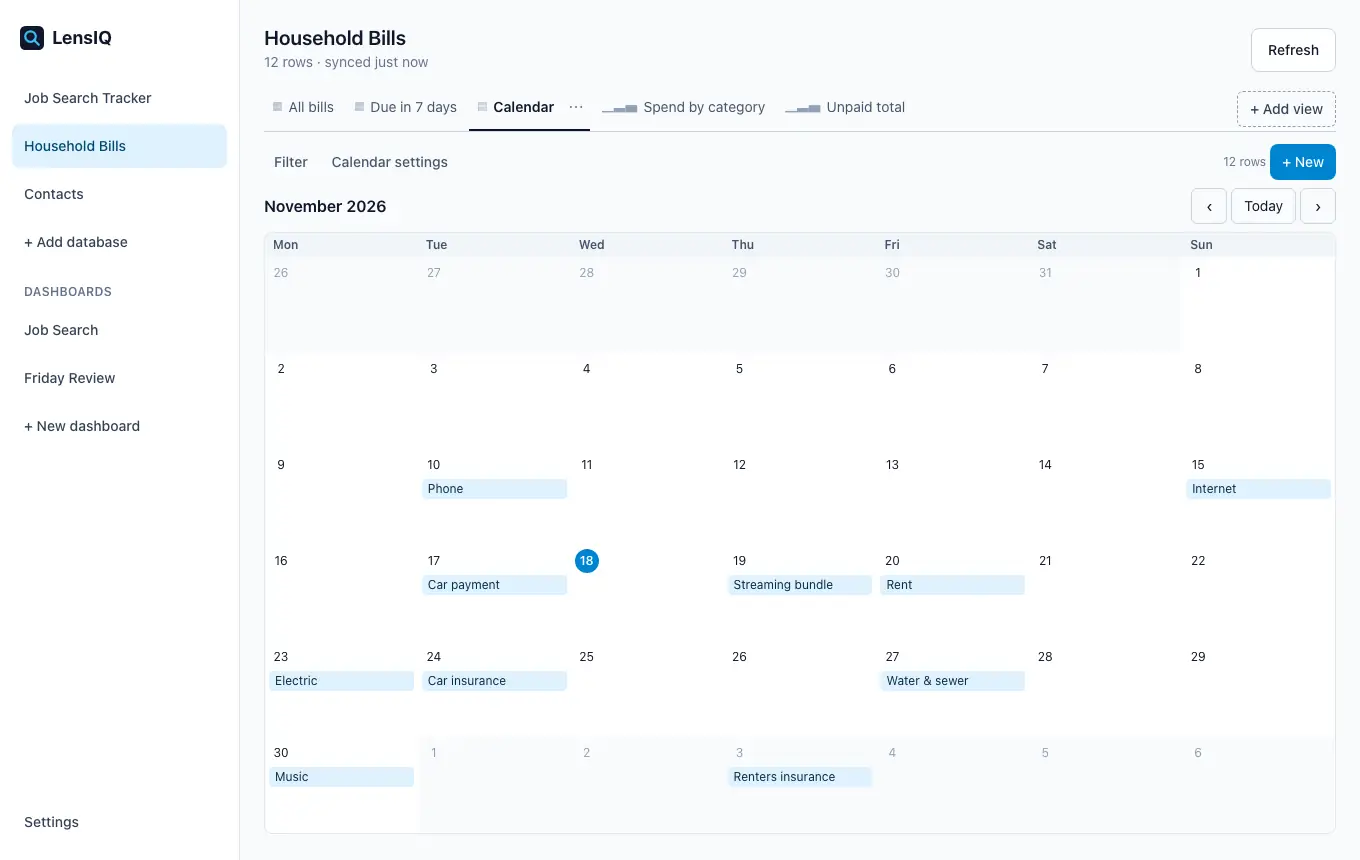
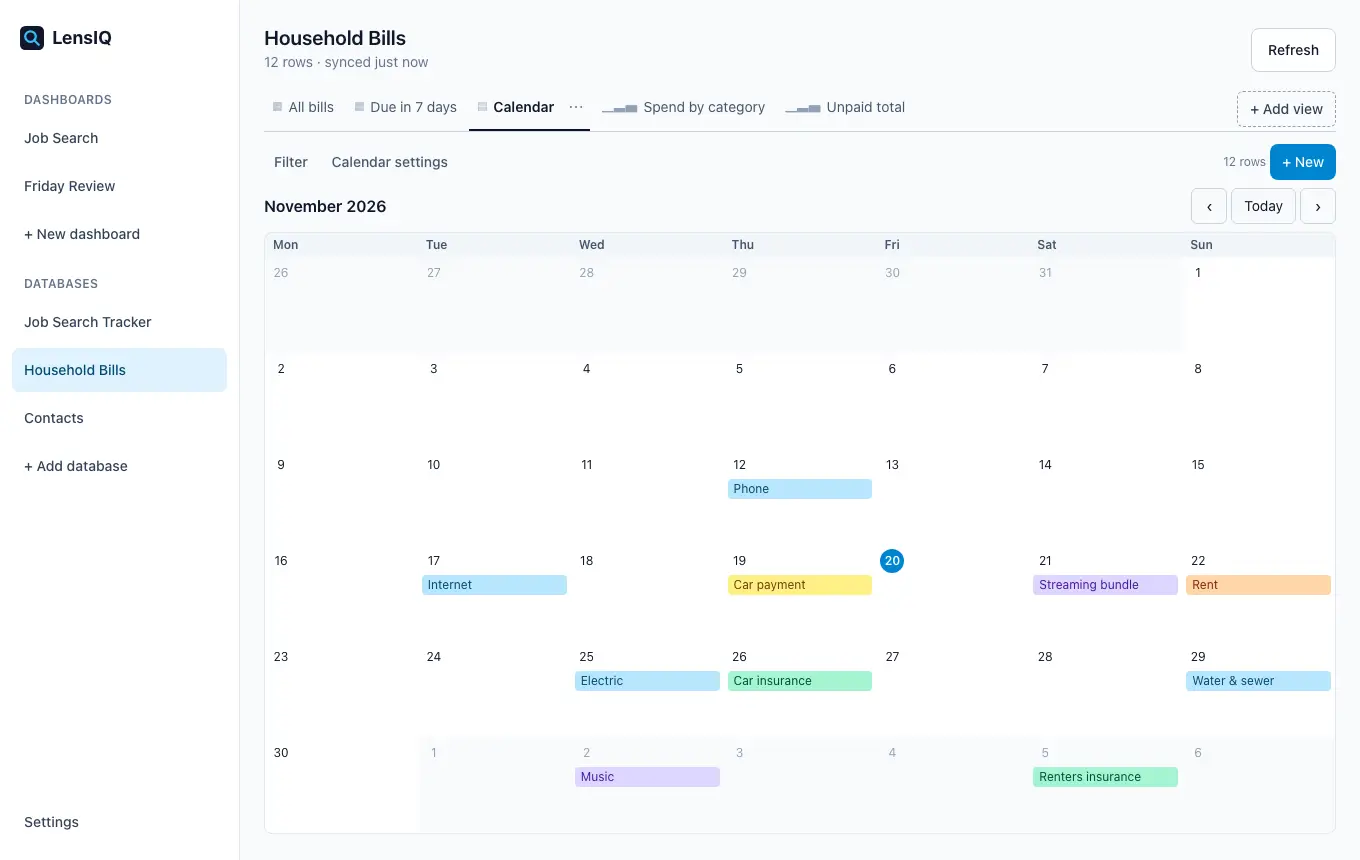
Release v1.2.0

diff --git a/web/src/demo/sampleData.ts b/web/src/demo/sampleData.ts
@@ -189,11 +189,12 @@ export function buildSample(now = new Date()): { databases: DemoDatabase[]; view
       ...base,
       sorts: [{ columnId: 'applied', direction: 'desc' }],
       hidden: ['posting'],
-      // Conditional highlighting (#51): offers green, rejections gray, a next step in the past orange.
+      // Conditional highlighting (#51): offers green, rejections gray, a next step in the past orange, one this week yellow.
       highlights: [
         { id: 'h1', filters: [{ id: 'hf1', columnId: 'status', op: 'any_of', value: ['st-offer'] }], filterMode: 'and', color: 'green', columnId: null },
         { id: 'h2', filters: [{ id: 'hf2', columnId: 'status', op: 'any_of', value: ['st-rejected'] }], filterMode: 'and', color: 'gray', columnId: null },
         { id: 'h3', filters: [{ id: 'hf3', columnId: 'next', op: 'past_days', value: 30 }], filterMode: 'and', color: 'orange', columnId: 'next' },
+        { id: 'h4', filters: [{ id: 'hf4', columnId: 'next', op: 'next_days', value: 7 }], filterMode: 'and', color: 'yellow', columnId: 'next' },
       ],
     }),
     view('v-jobs-board', JOBS_ID, 'Pipeline', 'board', { ...base, groupBy: 'status', cardFields: ['role', 'next'], hideEmptyGroups: false }),
@@ -216,8 +217,8 @@ export function buildSample(now = new Date()): { databases: DemoDatabase[]; view
       position: 0,
       tiles: [
         { id: 't1', viewId: 'v-jobs-board', size: 'full' },
-        { id: 't2', viewId: 'v-jobs-weekly', size: 'large' },
-        { id: 't3', viewId: 'v-jobs-salary', size: 'small' },
+        { id: 't2', viewId: 'v-jobs-weekly', size: 'large', height: 'short' },
+        { id: 't3', viewId: 'v-jobs-salary', size: 'small', height: 'short' },
         { id: 't4', viewId: 'v-jobs-status', size: 'medium' },
         { id: 't5', viewId: 'v-jobs-next', size: 'medium' },
       ],
@@ -230,7 +231,7 @@ export function buildSample(now = new Date()): { databases: DemoDatabase[]; view
       position: 1,
       tiles: [
         { id: 't6', viewId: 'v-bills-due', size: 'large' },
-        { id: 't7', viewId: 'v-bills-total', size: 'small' },
+        { id: 't7', viewId: 'v-bills-total', size: 'small', height: 'short' },
         { id: 't8', viewId: 'v-bills-cat', size: 'medium' },
         { id: 't9', viewId: 'v-bills-cal', size: 'medium' },
       ],

diff --git a/README.md b/README.md
@@ -11,14 +11,14 @@ Notion's free plan allows one chart. LensIQ keeps Notion as the data store and a
 <table>
   <tr>
     <td width="50%"><img src="docs/media/board-drag.webp" alt="Dragging a card to another status on a board updates Notion"><br><sub>Drag a card to change its status. The edit goes to Notion.</sub></td>
-    <td width="50%"><img src="docs/media/chart.webp" alt="Bar chart of applications per week, stacked by remote vs not remote"><br><sub>Charts: bar, line, area, donut and number tiles.</sub></td>
+    <td width="50%"><img src="docs/media/chart.webp" alt="Bar chart of applications per week, stacked by remote vs not remote, with each value written on its segment"><br><sub>Charts: bar, line, area, donut and number tiles, with values and totals.</sub></td>
   </tr>
   <tr>
-    <td><img src="docs/media/table.webp" alt="Table view with typed cells, sorting and inline editing"><br><sub>Typed table with filters, sorts and inline editing.</sub></td>
-    <td><img src="docs/media/calendar.webp" alt="Calendar view of bills by due date"><br><sub>Calendar by any date column; drag rows between days.</sub></td>
+    <td><img src="docs/media/table.webp" alt="Table view with typed cells; next steps due this week highlighted yellow"><br><sub>Typed table with filters, sorts, highlight rules and inline editing.</sub></td>
+    <td><img src="docs/media/calendar.webp" alt="Calendar view of bills by due date, each colored by its category"><br><sub>Calendar by any date column, colored by status; drag rows between days.</sub></td>
   </tr>
   <tr>
-    <td><img src="docs/media/chart-settings.webp" alt="Chart settings menu open over a bar chart: chart type, x-axis, date grouping, y-axis, split by, stacked"><br><sub>Build and edit charts in the app, no code.</sub></td>
+    <td><img src="docs/media/chart-settings.webp" alt="Chart settings menu open over a bar chart: chart type, x-axis, date grouping, y-axis, split by, show values, total bar, stacked"><br><sub>Build and edit charts in the app, no code.</sub></td>
     <td><img src="docs/media/board.webp" alt="Board view of job applications grouped by status"><br><sub>Boards grouped by any select or status.</sub></td>
   </tr>
 </table>
@@ -32,13 +32,13 @@ Notion's free plan allows one chart. LensIQ keeps Notion as the data store and a
 
 - **Edit Notion from LensIQ.** Change cells inline, or in a row panel (with Save and Cancel) on a phone, add rows, delete rows to Notion's trash, and create new select options as you type.
 - **No silent overwrites.** Before every write, the API re-reads the page; if that cell changed in Notion meanwhile, you pick which value to keep.
-- **Notion-style views.** Table, board, chart and calendar tabs on each database, each with its own filters (and/or), sorts and settings.
-- **Dashboards.** Any number of pages mixing views from any databases, in a grid that stacks to one column on a phone.
+- **Notion-style views.** Table, board, chart and calendar tabs on each database, each with its own filters (and/or), sorts and settings. Highlight table rows or cells by rule, color calendar events by status, and write values, percents and totals right on charts.
+- **Dashboards.** Any number of pages mixing views from any databases, with tiles of any width and height, in a grid that stacks to one column on a phone. The app opens on your first dashboard.
 - **Relations and files.** Linked pages show by title and edit with a searchable picker; file links always open a fresh download URL.
 - **Installable.** Add it to the iPhone home screen as an app.
 - **Backups.** Export and import every view and dashboard as JSON.
 
-> **Status: v1.1.0, released 2026-11-20.** Everything above is built, tested and running. See the [changelog](CHANGELOG.md) and the [issues](https://github.com/BobbyJoeCool/LensIQ/issues).
+> **Status: v1.2.0, released 2026-11-20.** Everything above is built, tested and running. See the [changelog](CHANGELOG.md) and the [issues](https://github.com/BobbyJoeCool/LensIQ/issues).
 
 ## How it works
 
@@ -56,10 +56,10 @@ flowchart LR
 - **Edits go straight to Notion.** Each edit shows on screen at once, then the API reads the page from Notion and compares the edited cell with the value you started from. If someone changed that cell in Notion meanwhile, you choose which value to keep instead of overwriting it silently. Changes to other columns don't count as conflicts.
 - **Staying in sync.** Opening a database shows the cached rows instantly and does a full reload behind them. While it stays open, LensIQ asks Notion every 60 seconds for rows edited since the last sync.
 - **Views, like Notion's.** Each database has view tabs (Table, Board, Chart) with their own filters, sorts and settings, saved in SQLite. Views store column IDs, never names, so renaming a column in Notion doesn't break them; a view that points at a deleted column says so instead of crashing. Filtering, sorting and chart math run in the browser on the cached rows, so changing a view costs no Notion requests.
-- **Charts.** Bar (vertical, horizontal, stacked), line, area (with running totals), donut and number tiles; count, sum, average, min or max; dates grouped by day, week, month or year; split by a select. Colors come from an eight-slot palette checked for color-vision deficiency in light and dark mode, and each Notion option keeps its own color. Every chart has a "Show data" table.
+- **Charts.** Bar (vertical, horizontal, stacked), line, area (with running totals), donut and number tiles; count, sum, average, min or max; dates grouped by day, week, month or year; split by a select. Colors come from an eight-slot palette checked for color-vision deficiency in light and dark mode, and each Notion option keeps its own color. Every chart has a "Show data" table. Values can be written on the chart (as values, percents of the whole, or both), and count and sum charts can add a total: a Total bar, the total in the middle of a donut, or above a line.
 - **Relations and files.** Relation columns show linked page titles (read from the related database on each full sync, about one request per 100 pages) and edit with a searchable picker. Notion-hosted file links expire after an hour, so file links go through the API, which reads the page again and redirects to a fresh URL.
-- **Calendar.** Rows on a month grid by any date column; drag a row to another day (ranges keep their length), or "+" to add a row on a day. On a phone it's an agenda list.
-- **Dashboards.** Any number of named pages, each a grid of views from any databases (a third, half, two thirds or full width; short, standard or tall), stacking to one column on a phone.
+- **Calendar.** Rows on a month grid by any date column; drag a row to another day (ranges keep their length), or "+" to add a row on a day. Events can take the color of a status or select property. On a phone it's an agenda list.
+- **Dashboards.** Any number of named pages, each a grid of views from any databases (a third, half, two thirds or full width; short, standard or tall), stacking to one column on a phone. Dashboards come first in the menu, in an order you set, and `#/` opens the first one.
 - **Rate limit.** Every Notion request goes through one limiter that spaces requests about 400 ms apart (≈2.5/s, under Notion's 3/s average). The Notion SDK retries 429 responses, honoring `Retry-After`.
 - Every `/api` request must carry a valid Cloudflare Access JWT, so the app can't be reached by going around Cloudflare.
 - **The public demo** is the same React app built with `VITE_DEMO=1`: a small in-browser server (`web/src/demo/`) answers its `/api` calls from fictional sample data, so it needs no Notion token or backend and is published to GitHub Pages by a workflow on every push to `main`. The demo code isn't in the normal build.
@@ -137,7 +137,7 @@ npm run build:demo   # static demo in web/dist-demo
 | `GET` | `/api/views?databaseId=` | Views of a database in tab order (a default Table view is created the first time), or every view |
 | `POST` / `PATCH` / `DELETE` | `/api/views`, `/api/views/:id` | Create a view (`databaseId`, `name`, `type`, optional `config`); change its name, settings or tab position; delete it (and its dashboard tiles) |
 | `GET` / `POST` | `/api/dashboards` | List or create dashboards |
-| `GET` / `PATCH` / `DELETE` | `/api/dashboards/:id` | One dashboard; rename it or replace its tiles (`{ viewId, size, height }` in order); delete it |
+| `GET` / `PATCH` / `DELETE` | `/api/dashboards/:id` | One dashboard; rename it, replace its tiles (`{ viewId, size, height }` in order) or move it in the menu (`position`); delete it |
 | `GET` | `/api/export` | Every view and dashboard as one JSON file |
 | `POST` | `/api/import` | Add the views and dashboards from an export (databases matched by Notion ID; others skipped) |
 

diff --git a/CHANGELOG.md b/CHANGELOG.md
@@ -2,6 +2,20 @@
 
 All notable changes to LensIQ are listed here. Versions follow [Semantic Versioning](https://semver.org/). Work before v1.0.0 is tracked in the [GitHub issues](https://github.com/BobbyJoeCool/LensIQ/issues?q=is%3Aissue+Phase).
 
+## [1.2.0] - 2026-11-20
+
+### Added
+
+- **Chart values without hovering.** A **Show values** setting writes each value on its bar, segment, slice or point, as the value, its percent of the whole chart, or both. Percent is offered for count and sum on bar and donut charts. Labels that don't fit are hidden, and line and area charts label points when there are 24 or fewer. ([#56](https://github.com/BobbyJoeCool/LensIQ/issues/56))
+- **Chart totals.** Count and sum charts can show a total: a **Total** bar at the end of a bar chart (split like the other bars), the total in the middle of a donut, or above a line or area chart. It counts each row on the chart once and follows the view's filters. ([#52](https://github.com/BobbyJoeCool/LensIQ/issues/52))
+- **Calendar colors.** A **Color by** setting colors each calendar event with the Notion color of a status or select property. New calendars color by the first status property. ([#55](https://github.com/BobbyJoeCool/LensIQ/issues/55))
+- **Conditional highlighting on tables.** A **Highlight** menu holds rules: a color, the whole row or one column's cell, and conditions built like filters (and/or). When several rules match, the first one wins, and rules can be reordered. ([#51](https://github.com/BobbyJoeCool/LensIQ/issues/51))
+
+### Changed
+
+- **Dashboards on top.** Dashboards come before databases in the menu and the phone's top bar, and LensIQ opens on the first dashboard (or the first database when there are none). Up and down buttons beside each dashboard set the order. ([#50](https://github.com/BobbyJoeCool/LensIQ/issues/50))
+- README screenshots show the new features.
+
 ## [1.1.0] - 2026-11-20
 
 ### Added
